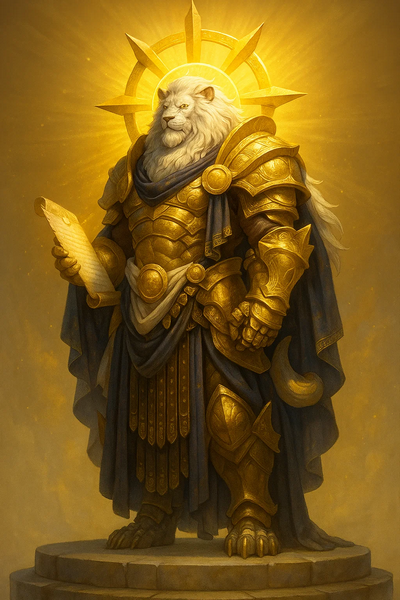
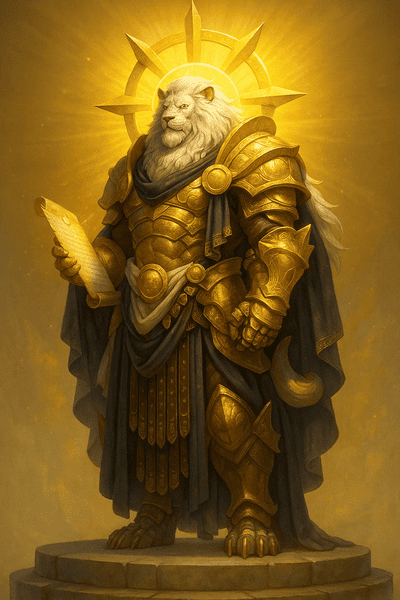
many small fixes, art optimisation, css

diff --git a/public/style.css b/public/style.css
@@ -396,7 +396,7 @@
 
         .selection-grid {
             display: grid;
-            grid-template-columns: repeat(auto-fit, minmax(280px, 1fr));
+            grid-template-columns: repeat(auto-fit, minmax(150px, 1fr));
             gap: 0.5rem;
             width: 100%;
         }
@@ -565,6 +565,9 @@
             font-size: 0.9rem;
             border-radius: 4px;
         }
+
+
+        /* character manager end */
 
         .select-btn {
             margin-top: 1rem;

diff --git a/public/character_manager.js b/public/character_manager.js
@@ -52,7 +52,7 @@ function renderCharacters(characters) {
         <h1>Your Champions</h1>
         <p class="subtitle">You have no champions yet. Create some to start your journey.</p>
       </div>
-      <div class="confirm-return-buttons">
+      <div class="top-right-buttons">
         <button class="fantasy-button return-btn">Return</button>
       </div>
     `;

diff --git a/public/embark.js b/public/embark.js
@@ -47,7 +47,7 @@ function renderEmbarkScreen() {
         ${createEmbarkCard('PvP Arena', 'PvP', 'assets/art/embark/pvp.png')}
       </div>
     </div>
-    <div class="confirm-return-buttons">
+    <div class="top-right-buttons">
       <button class="fantasy-button return-btn">Return</button>
     </div>
   `;
